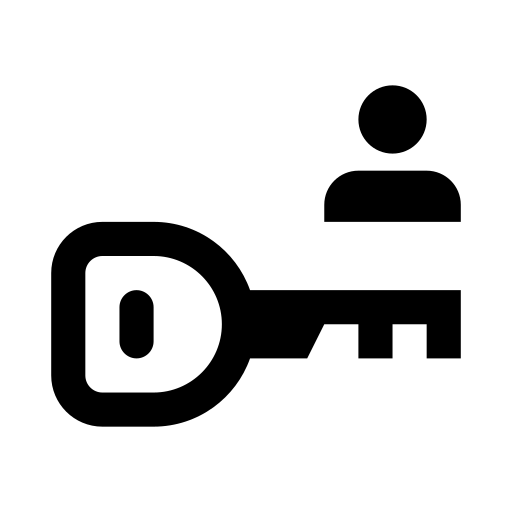
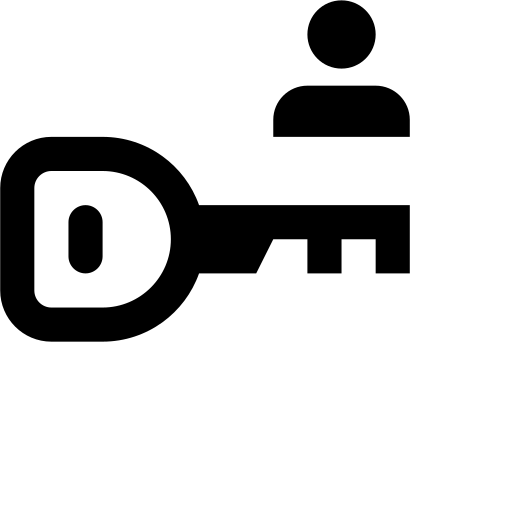
бейджи состояния

Changed region(s): [[0.0, 0.0, 0.9062, 0.8438]]

diff --git a/content/content.js b/content/content.js
@@ -1,9 +1,37 @@
-function onFinish() {
-    // pass
+function onFinish(state) {
+    switch(state){
+        case '':
+            chrome.runtime.sendMessage({
+                action: 'set-badge',
+                text: '',
+                color: '#999999'
+            });
+            break;
+        case 'ok':
+            chrome.runtime.sendMessage({
+                action: 'set-badge',
+                text: '✓'
+            });
+            break;
+        case 'active':
+            chrome.runtime.sendMessage({
+                action: 'set-badge',
+                text: '⯈'
+            });
+            break;
+        case 'fail':
+            chrome.runtime.sendMessage({
+                action: 'set-badge',
+                text: '✖',
+                color: '#ff0000'
+            });
+
+            
+    }
 }
 
 // Ждём полной загрузки DOM
-document.addEventListener('DOMContentLoaded', () => {
+ function tryLogin(){
 
     chrome.storage.sync.get(['instances', 'activeInstances'], async ({ instances = {}, activeInstances = [] }) => {
     const currentOrigin = window.location.origin;
@@ -11,19 +39,20 @@ document.addEventListener('DOMContentLoaded', () => {
     
     console.log("currentOrigin: ", currentOrigin)
     
-    if (!config || !activeInstances.includes(currentOrigin)) return onFinish();;
-    
+    if (!config || !activeInstances.includes(currentOrigin)) return onFinish('');;
+    let state;
     try {
         switch (config.authMethod) {
         case 'aes-ecb':
-            token = await getAESToken(config);
+            state = await getAESToken(config);
             break;
         }
         
     } catch (error) {
         console.error(`[Auth Injector] Ошибка для ${currentOrigin}:`, error);
+        state = "fail";
     }
-    onFinish();
+    onFinish(state);
     });
 
 
@@ -35,8 +64,21 @@ document.addEventListener('DOMContentLoaded', () => {
         
         let token;
         const tokenKey = "token";
-        const apiUrl = host+endpoint;
 
+        const localStorageIP = localStorage.getItem("IP")
+
+        const apiUrl = localStorageIP || host+endpoint;
+        if(localStorageIP){
+            chrome.runtime.sendMessage({
+                action: 'set-badge',
+                color: '#ffd700'
+            });
+        }else{
+            chrome.runtime.sendMessage({
+                action: 'set-badge',
+                color: '#28a745'
+            });
+        }
 
         const requestToBridge =  (command, params=null) => {
             const myHeaders = new Headers();
@@ -63,7 +105,7 @@ document.addEventListener('DOMContentLoaded', () => {
                 if((await requestToBridge("CMS.USER.GET_SETTINGS")).status == 200)
                 {
                     console.log("и без нашей помощи залогинены")
-                    return;
+                    return 'ok';
                 }
             }catch (error){
                 //pass
@@ -115,6 +157,10 @@ document.addEventListener('DOMContentLoaded', () => {
                 }
             });
         }
+        return 'active'
     }
 
-})
+}
+
+
+document.addEventListener('DOMContentLoaded', tryLogin)

diff --git a/background.js b/background.js
@@ -6,3 +6,16 @@ chrome.webNavigation.onCommitted.addListener(function (details) {
     });
   }
 });
+
+
+
+
+
+chrome.runtime.onMessage.addListener((msg, sender, sendResponse) => {
+  if (msg.action === 'set-badge') {
+    if(msg.text !== undefined)
+      chrome.action.setBadgeText({ text: msg.text });
+    if(msg.color !== undefined)
+      chrome.action.setBadgeBackgroundColor({ color: msg.color });
+  }
+});
